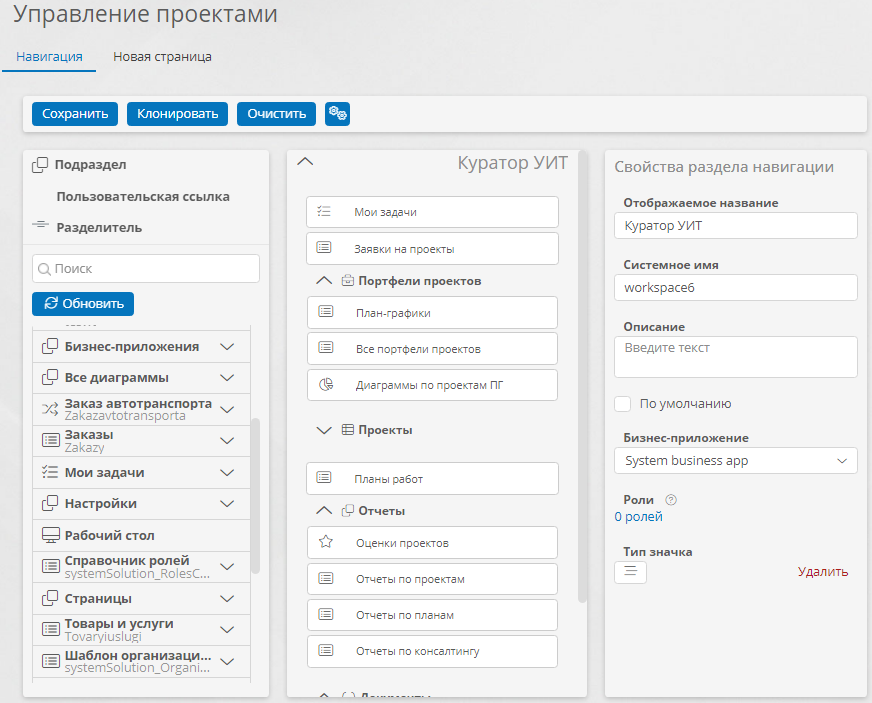
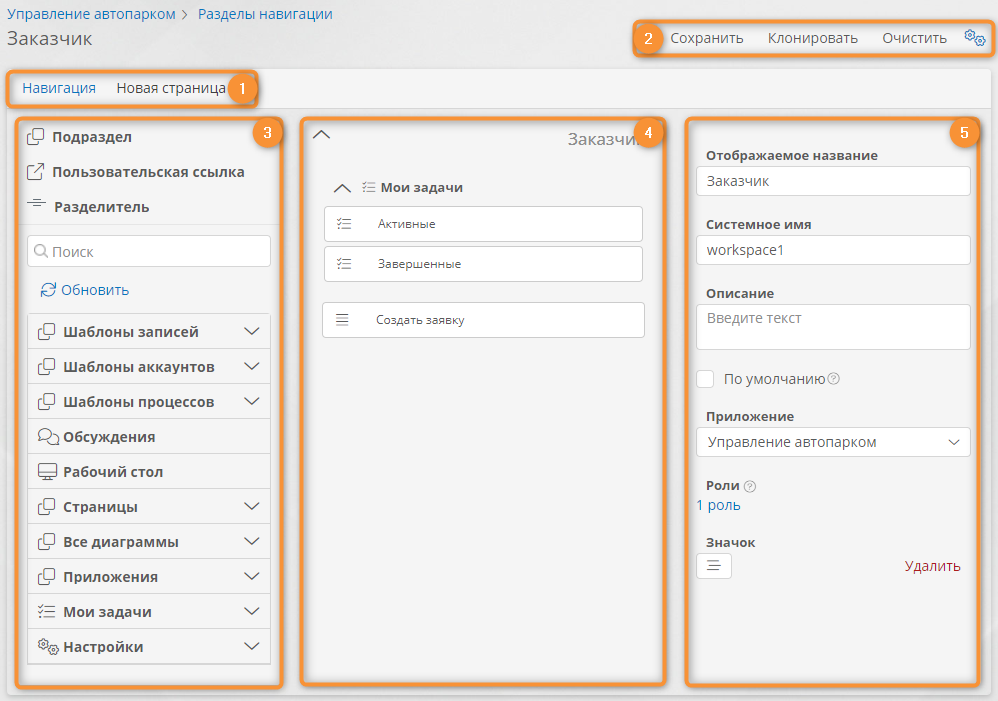
[#1715843] Edited Navigation Sections Setup (2212) article

diff --git a/docs/ru/business_apps/navigation_sections/navigation_sections_setup.md b/docs/ru/business_apps/navigation_sections/navigation_sections_setup.md
@@ -1,4 +1,5 @@
 ---
+title: Панель и разделы навигации
 tags:
     - раздел навигации
     - настройка навигации
@@ -7,70 +8,42 @@ hide:
     - tags
 ---
 
-# Настройка разделов навигации
+# Панель и разделы навигации. Определения, настройка, удаление {: #navigation_sections_setup}
 
-## Использование списка разделов навигации
+## Введение
 
-1. Для создания, настройки и удаления разделов навигации перейдите к списку разделов навигации.
-2. В разделе «**[Администрирование][администрирование-приложения]**» приложения выберите пункт «**Разделы навигации**» <i class="fa-light fa-keynote"></i>.
-3. Отобразится список разделов навигации для текущего [приложения][apps].
+В **{{ productName }}** предусмотрена панель для навигации по системе и приложениям.
 
-*![Список разделов навигации](navigation_sections_list.png)*
+В состав панели навигации могут входить разделы и подразделы навигации, ссылки на страницы, гиперссылки, рабочий стол:
 
-### Сведения в списке разделов навигации
+_![Панель навигации](navigation_panel.png)_
 
-- **Флажки выбора** — устанавливайте флажки в этом столбце, чтобы выбрать один или несколько разделов навигации.
-- **ID** — уникальный идентификатор раздела навигации, формируется автоматически.
-- **Название** — наглядное наименование раздела навигации.
-- **Системное имя** — уникальное имя раздела навигации для обращения к нему.
-- **По умолчанию** — если у раздела навигации установлен этот флажок, он будет отображаться у пользователей, которым не назначен ни один другой раздел навигации.
+Внешний вид и состав панели навигации настраиваются:
 
-### Операции в списке разделов навигации
+* на уровне приложений при их разработке — см. «**[Настройка разделов навигации][navigation_sections_setup]**», «**[Настройка рабочего стола][desktop_setup]**», «**[Настройка страниц][pages_setup]**»;
+* на уровне аккаунтов при использовании приложений конечными пользователями — см. «**[Использование системы. Панель навигации][navigation_panel]**» и «**[Использование системы. Панель навигации. Рабочий стол][desktop]**».
 
-- **Создать** — [создание](#создание-раздела-навигации) нового раздела навигации.
-- **Открыть** — дважды щёлкните раздел навигации в списке, чтобы перейти к его [настройке](#настройка-раздела-навигации).
-- **Удалить** — [удаление](#создание-раздела-навигации) выбранных разделов навигации. Эта кнопка отображается, только если в списке выбран хотя бы один раздел навигации.
---8<-- "list_search_button.md"
+!!! question "Определения"
 
-## Создание раздела навигации
+    * **Раздел навигации** — это набор пунктов, позволяющих переходить к различным страницам.
+    * В состав раздела навигации могут входить подразделы, ссылки на [страницы][pages_setup], [страница «**Мои задачи**»][my_tasks_page_configure], [рабочий стол][desktop_setup] и гиперссылки на внутренние и внешние веб-страницы.
+    * Раздел навигации отображается только для пользователей, входящих в состав [роли][roles], которая выбрана для раздела. 
+    * Если пользователю назначено несколько ролей, то для него будут отображаться все разделы навигации, выбранные для этих ролей.
+    * Если пользователю не назначена роль, для него будет отображаться раздел навигации, [заданный по умолчанию][navigation_section_setup_view].
 
-1. В [списке разделов](#использование-списка-разделов-навигации) нажмите кнопку «**Создать**».
-2. Отобразится [конструктор раздела навигации](#элементы-конструктора-раздела-навигации).
-3. Настройте раздел навигации.
+## Просмотр списка разделов навигации и настройка раздела {: #navigation_section_setup_view}
 
-## Настройка раздела навигации
+1. В разделе «**[Администрирование][администрирование-приложения]**» приложения выберите пункт «**Разделы навигации**» <i class="fa-light fa-keynote"></i>.
+2. Отобразится список разделов навигации для текущего [приложения][apps].
 
-1. Создайте или откройте раздел навигации в [списке](#использование-списка-разделов-навигации).
-2. Отобразится конструктор раздела навигации.
+_![Список разделов навигации](navigation_sections_list.png)_
 
-*![Конструктор раздела навигации](navigation_section_designer.png)*
+3. Нажмите кнопку «Создать» или дважды нажмите раздел навигации в списке.
+4. Отобразится конструктор раздела навигации.
+5. Нажмите пустое место макета раздела.
+6. Отобразится панель свойств раздела навигации.
+7. Настройте свойства раздела:
 
-### Элементы конструктора раздела навигации
-
-1. Вкладки
-    - **Навигация** — на этой вкладке настраиваются пункты и подразделы раздела навигации.
-    - **Страница в составе рабочего стола** — на этой вкладке настраивается страница, которую можно включить в состав рабочего стола. См. «**[Настройка рабочего стола](desktop_setup.md)**» и «**[Настройка страниц](pages_setup.md)**».
-2. Кнопки
-    - **Сохранить** — сохранение конфигурации раздела навигации.
-    - **Клонировать** — создание дубликата раздела навигации.
-    - **Очистить** — удаление всех пунктов из раздела навигации.
-    - **Перейти к администрированию приложения** <i class="fa-light fa-gears"></i> — переход к странице «**Администрирование**» приложения.
-3. Панель элементов — содержит список элементов, которые можно поместить в раздел навигации.
-    - Типовые элементы
-        - **Подраздел** — в подраздел можно поместить дочерние элементы, чтобы упорядочить их. Подразделы можно сворачивать и разворачивать так же, как разделы.
-        - **Пользовательская ссылка** — этот элемент содержит гиперссылку на любой сторонний ресурс, например веб-сайт или адрес электронной почты.
-        - **Разделитель** — этот элемент позволяет разделить другие элементы в разделе навигации, чтобы упорядочить их.
-    - Поле «**Поиск**» — поиск элементов приложения.
-    - Кнопка «**Обновить**» — обновление списка элементов приложения.
-    - Список элементов приложения.
-4. Макет раздела навигации — предварительное представление раздела навигации. Служит для добавления элементов, упорядочивания и удаления элементов раздела навигации.
-5. Панель свойств — служит для настройки свойств раздела навигации и его элементов.
-
-### Настройка свойств раздела навигации
-
-1. Нажмите пустое макета раздела навигации.
-2. Отобразится панель «**Свойства раздела навигации**».
-3. Настройте свойства раздела:
     - **Отображаемое название** — введите наглядное название, которое будет отображаться в панели навигации.
     - **Системное имя** — уникальное имя раздела, формируется автоматически посредством транслитерации отображаемого названия.
     - **Описание** — введите краткое описание назначения раздела.
@@ -80,43 +53,93 @@ hide:
     - **Значок** — выберите наглядный значок, который будет отображаться рядом с названием раздела в панели навигации.
         - **Удалить** — удаление значка раздела.
 
-    **![Панель «Свойства раздела навигации»](navigation_sections_setup_properties.png)**
+8. Добавьте элементы в раздел навигации, перетащив их из панели элементов на макет.
+9. Выбирайте элементы на макете и настройте их свойства с помощью панели свойств.
+10. Настройте [страницы][pages_setup] и добавьте их в раздел навигации или на [рабочий стол][desktop_setup].
+11. Добавьте в раздел навигации и настройте [страницу «**Мои задачи**»][my_tasks_page_configure].
+12. Сохраните раздел навигации.
 
-### Добавление элемента в раздел навигации
+## Использование конструктора раздела навигации {: #navigation_section_setup_designer}
 
-Перетащите требуемый элемент с панели элементов на макет.
+Конструктор раздела навигации позволяет сформировать макет раздела и настроить свойства раздела и его элементов. Конструктор раздела навигации состоит из перечисленных ниже областей.
 
-*![Добавление элемента в раздел навигации](navigation_sections_setup_add_element.png)*
+1. **Вкладки**
+    - **Навигация** — на этой вкладке настраиваются пункты и подразделы раздела навигации.
+    - **Страница в составе рабочего стола** — на этой вкладке настраивается страница, которую можно включить в состав рабочего стола. См. «**[Настройка рабочего стола][desktop_setup]**» и «**[Настройка страниц][pages_setup]**».
+2. **Кнопки**
+    - **Сохранить** — сохранение конфигурации раздела навигации.
+    - **Клонировать** — [создание дубликата][navigation_section_setup_clone] раздела навигации.
+    - **Очистить** — [удаление всех пунктов][navigation_section_setup_delete] из раздела навигации.
+    - **Перейти к администрированию приложения** <i class="fa-light fa-gears"></i> — переход к странице «**Администрирование**» приложения.
+3. **Панель элементов** — содержит список элементов, которые можно поместить в раздел навигации.
+    - Типовые элементы
+        - **Подраздел** — в подраздел можно поместить дочерние элементы, чтобы упорядочить их. Подразделы можно сворачивать и разворачивать так же, как разделы.
+        - **Пользовательская ссылка** — этот элемент содержит гиперссылку на любой сторонний ресурс, например веб-сайт или адрес электронной почты.
+        - **Разделитель** — этот элемент позволяет разделить другие элементы в разделе навигации, чтобы упорядочить их.
+    - Поле «**Поиск**» — поиск элементов приложения.
+    - Кнопка «**Обновить**» — обновление списка элементов приложения.
+    - **Список элементов приложения** — список шаблонов, таблиц и кнопок из приложения, к которому относится раздел навигации.
+4. **Макет раздела навигации** — предварительное представление раздела навигации. Служит для добавления элементов, упорядочивания и удаления элементов раздела навигации.
+5. **Панель свойств** — служит для настройки свойств раздела навигации и его элементов.
 
-### Удаление элементов из раздела навигации
+_![Конструктор раздела навигации](navigation_section_designer.png)_
 
-#### Удаление одного элемента
+## Удаление элементов из раздела навигации {: #navigation_section_setup_delete}
 
-Перетащите элемент, подлежащий удалению, за пределы макета.
+1. Перетащите элемент, подлежащий удалению, за пределы макета.
+2. Чтобы удалить все элементы, нажмите кнопку «**Очистить**» в [конструкторе раздела навигации][navigation_section_setup_designer] и подтвердите удаление.
 
-*![Удаление элемента из раздела навигации](navigation_sections_setup_delete_element.png)*
+_![Удаление элемента путем перетаскивания из макета раздела навигации](navigation_sections_setup_delete_element.png)_
 
-#### Удаление всех элементов
+## Назначение раздела навигации ролям
 
-1. Нажмите кнопку «**Очистить**» в [конструкторе раздела навигации](#настройка-раздела-навигации).
-2. Подтвердите удаление всех элементов из раздела навигации.
+Для каждой роли в приложении можно назначить один раздел навигации. При этом аккаунту может быть назначено несколько ролей, и тогда пользователю этого аккаунта будет доступно несколько разделов навигации.
 
-## Клонирование раздела навигации
+_![Кнопка выбора и список разделов навигации, доступных пользователю](navigation_sections_setup_assign_roles.png)_
 
-1. Нажмите кнопку «**Очистить**» в [конструкторе раздела навигации](#настройка-раздела-навигации).
+!!! note "Примечание"
+
+    Для назначения раздела навигации определённой роли должны быть соблюдены следующие условия:
+
+    - роль и раздел навигации должны относиться к одному и тому же приложению;
+    - у роли должны быть разрешения на доступ к ресурсам, ссылки на которые будут помещены в раздел навигации.
+
+1. Откройте конструктор раздела навигации.
+2. На панели свойств раздела навигации по умолчанию выбрано «0 ролей».
+3. Нажмите ссылку с количеством ролей.
+
+_![Настройка ролей в конструкторе раздела навигации](navigation_sections_setup_roles_setting.png)_
+
+4. Откроется окно, в котором слева отображается область со списком доступных ролей, а справа — список ролей, которым назначен данный раздел навигации.
+5. Дважды нажимайте роли в левом списке, чтобы перенести их в правый список и наоборот.
+6. Чтобы перенести сразу все роли, нажмите кнопку «**Выбрать все**» <i class=" fal  fa-check-double " aria-hidden="true"></i>.
+7. Нажмите кнопку «**Применить**».
+
+_![Окно выбора списка ролей](navigation_sections_setup_select_roles_window.png)_
+
+## Клонирование раздела навигации {: #navigation_section_setup_clone}
+
+1. Нажмите кнопку «**Клонировать**» в [конструкторе раздела навигации][navigation_section_setup_designer].
 2. В отобразившемся окне введите **название** и **системное имя** раздела навигации.
-3. Нажмите кнопку «**Сохранить**»
+3. Нажмите кнопку «**Сохранить**».
+4. Отобразится [конструктор созданного раздела навигации][navigation_section_setup_designer].
 
 ## Удаление раздела навигации
 
-1. В [списке разделов](#использование-списка-разделов-навигации) установите [флажок выбора](#сведения-в-списке-разделов-навигации) для подлежащего удалению раздела.
+1. В [списке разделов][navigation_section_setup_view] установите флажок выбора для подлежащего удалению раздела.
 2. Нажмите кнопку «**Удалить**».
 3. Подтвердите удаление раздела навигации.
 
 --8<-- "related_topics_heading.md"
 
-**[Настройка рабочего стола](desktop_setup.md)**
+**[Настройка рабочего стола][desktop_setup]**
 
-**[Настройка страниц](pages_setup.md)**
+**[Настройка страниц][pages_setup]**
 
-**[Разработка приложений][apps]**
+**[Настройка страницы «Мои задачи»][my_tasks_page_configure]**
+
+**[Роли в приложении. Определения, настройка, объединение, удаление][roles]**
+
+{%
+include-markdown ".snippets/hyperlinks_mkdocs_to_kb_map.md"
+%}
